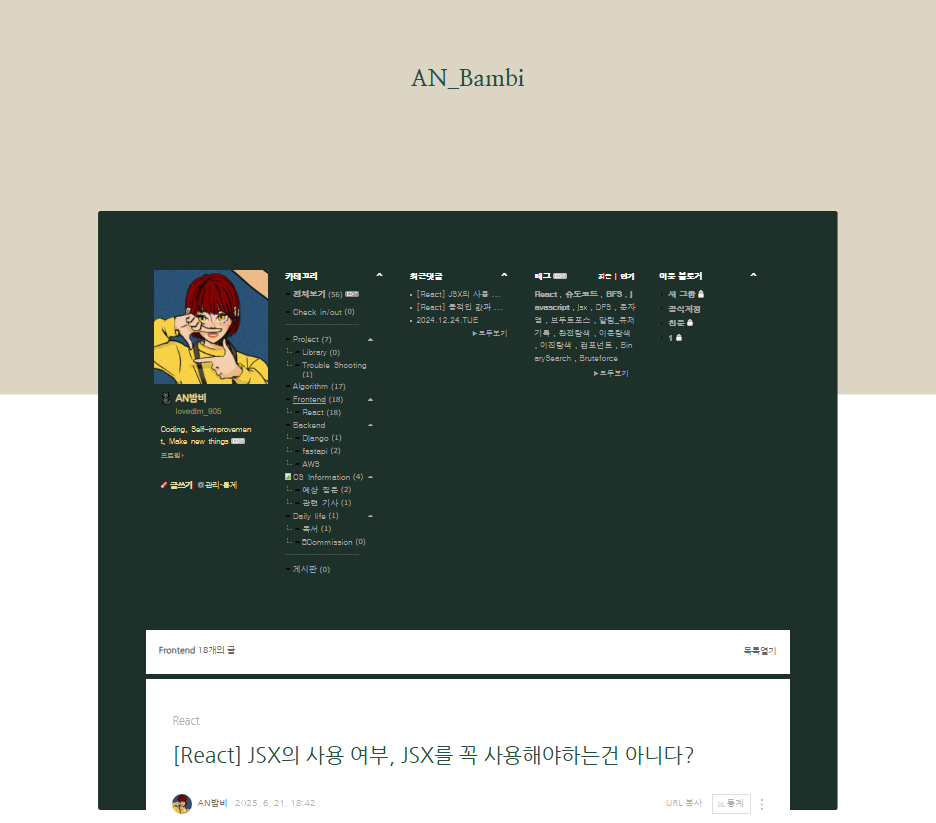
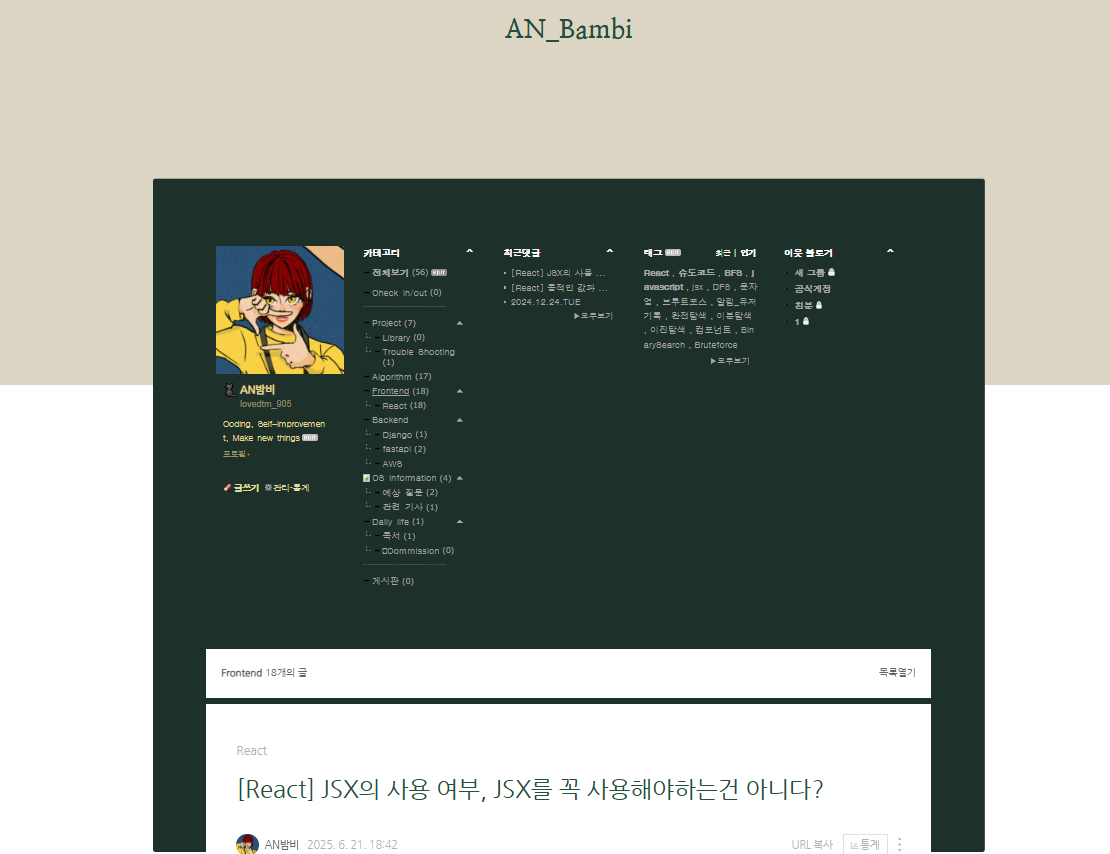
feat: 내비게이션 화살표 추가 및 페이지 전환 기능 구현 fix: 자격증 제목 수정 및 CSS 스타일 조정 fix: 연락처 섹션 스타일 개선 fix: 홈 섹션 최소 높이 및 스타일 수정

diff --git a/src/components/css/Contact.css b/src/components/css/Contact.css
@@ -1,6 +1,5 @@
 .contact {
-    height: 100vh;
-    padding: 80px 20px;
+    padding: 20px 20px;
     display: flex;
     flex-direction: column;
     justify-content: center;
@@ -14,13 +13,13 @@
     font-weight: 700;
     letter-spacing: 0.08em;
     color: #2c4d3a;
-    margin-bottom: 1.5rem;
+    margin-bottom: 3rem;
     flex-shrink: 0;
 }
 
 .contact-content {
     display: flex;
-    gap: 2rem;
+    gap: 4rem;
     width: 100%;
     flex: 1;
     align-items: flex-start;
@@ -29,8 +28,9 @@
 
 .contact-icons {
     display: flex;
-    gap: 32px;
-    align-items: center;
+    flex-direction: column;
+    gap: 100px;
+    align-items: flex-start;
     flex-shrink: 0;
 }
 
@@ -45,7 +45,7 @@
     color: #fffde7;
     text-decoration: none;
     font-size: 24px;
-    transition: background-color 0.5s ease, transform 0.5s ease;
+    transition: background-color 0.3s ease, transform 0.3s ease;
 }
 
 .blog-initial {
@@ -81,7 +81,7 @@
     flex: 1;
     height: 100%;
     max-width: 680px;
-    border-radius: 12px;
+    border-radius: 15px;
     display: flex;
     align-items: center;
     justify-content: center;
@@ -93,14 +93,14 @@
   width: 100%;
   height: auto;
   opacity: 0;
-  transition: opacity 0.5s ease;
+  transition: opacity 1s ease;
 }
 
 .contact-preview p {
   color: #2c4d3a;
   font-size: 0.95rem;
   opacity: 1;
-  transition: opacity 0.5s ease;
+  transition: opacity 1s ease;
 }
 
 .contact-preview img.fade-in {

diff --git a/src/App.jsx b/src/App.jsx
@@ -10,9 +10,32 @@ import Certificate from './components/Certificate';
 import Contact from './components/Contact';
 import './App.css';
 
-function App() {
+const pageOrder = [
+  'home', 'about', 'projects', 'skills',
+  'experience', 'certificate', 'contact'
+];
 
-  const [selectedPage, setSelectedPage] = useState('home');
+function App() {
+  const [currentIndex, setCurrentIndex] = useState(0);
+
+  const selectedPage = pageOrder[currentIndex];
+  
+  const goPrev = () => {
+    setCurrentIndex((prev) =>
+    prev === 0 ? pageOrder.length - 1 : prev - 1
+    );
+  };
+
+  const goNext = () => {
+    setCurrentIndex((prev) => 
+    prev === pageOrder.length - 1 ? 0 : prev + 1
+    );
+  };
+
+  const handleSelectPage = (page) => {
+    const idx = pageOrder.indexOf(page);
+    if (idx !== -1) setCurrentIndex(idx);
+  };
 
   const renderPage = () => {
     switch (selectedPage) {
@@ -37,10 +60,17 @@ function App() {
 
   return (
     <>
-      <Menu selectedPage={selectedPage} onSelectPage={setSelectedPage} />
+      <Menu selectedPage={selectedPage} onSelectPage={handleSelectPage} />
       <main className="content">
         {renderPage()}
       </main>
+
+        <button className="nav-arrow left" onClick={goPrev}>
+          ‹
+        </button>
+        <button className="nav-arrow right" onClick={goNext}>
+          ›
+        </button>
     </>
   );
 }

diff --git a/src/App.css b/src/App.css
@@ -39,3 +39,54 @@
 .read-the-docs {
   color: #888;
 }
+
+.nav-arrow {
+  position: fixed;
+  top: 50%;
+  transform: translateY(-50%);
+  background: rgba(44, 77, 58, 0.8);
+  color: #fffde7;
+  border: none;
+  width: 50px;
+  height: 50px;
+  border-radius: 50%;
+  font-size: 24px;
+  font-weight: bold;
+  cursor: pointer;
+  z-index: 50;
+  /* backdrop-filter: blur(10px); */
+  transition: all 0.3s ease;
+  display: flex;
+  align-items: center;
+  justify-content: center;
+  pointer-events: auto;
+  outline: none;
+  border: none;
+}
+
+.nav-arrow:hover {
+  background: #2c4d3a;
+  transform: translateY(-50%) scale(1.1);
+}
+
+.nav-arrow.left {
+  left: 20px;
+}
+
+.nav-arrow.right {
+  right: 20px;
+}
+
+.nav-arrow:hover {
+  background: rgba(44, 77, 58, 0.9);
+  transform: translateY(-50%) scale(1.05);
+}
+
+.nav-arrow:focus {
+  outline: none;
+  box-shadow: none;
+}
+
+.nav-arrow:active {
+  outline: none;
+}

diff --git a/src/components/css/Certificate.css b/src/components/css/Certificate.css
@@ -1,6 +1,5 @@
 .certificate {
-  height: 100vh;
-  padding: 80px 20px;
+  padding: 60px 40px;
   display: flex;
   flex-direction: column;
   align-items: center;
@@ -11,9 +10,9 @@
 .certificate h2 {
   font-size: 2.2rem;
   font-weight: 700;
-  letter-spacing: 0.08em;
+  letter-spacing: 0.1em;
   color: #2c4d3a;
-  margin-bottom: 2rem;
+  margin-bottom: 6rem;
 }
 
 .cert-list {
@@ -29,11 +28,10 @@
   justify-content: space-between;
   align-items: center;
   padding-bottom: 2rem;
-  border-bottom: 1px solid #e8f0ec;
 }
 
 .cert-name {
-  font-size: 1.1rem;
+  font-size: 1.5rem;
   font-weight: 600;
   color: #2c4d3a;
   flex: 1;

diff --git a/src/components/css/Home.css b/src/components/css/Home.css
@@ -1,6 +1,6 @@
 .home {
-  min-height: 100vh;
-  width: 100vw;
+  min-height: 85vh;
+
   display: flex;
   justify-content: flex-start;
   align-items: center;
@@ -17,7 +17,7 @@
   font-size: 4rem;
   font-weight: 800;
   letter-spacing: 0.08em;
-  color: #2c4d3a; /* 제목 */
+  color: #2c4d3a;
 }
 
 
@@ -25,13 +25,11 @@
   margin-top: 1rem;
   font-size: 1.5rem;
   color: #2c4d3a;
-  /* 서브 타이틀 */
 }
 
 
 .home-title span {
   color: #2FA36B;
-  /* 강조 */
 }
 
 
@@ -40,5 +38,4 @@
   font-size: 1.15rem;
   line-height: 1.6;
   color: #2c4d3a;
-  /* 본문 */
 }

diff --git a/src/components/Certificate.jsx b/src/components/Certificate.jsx
@@ -4,7 +4,7 @@ import './css/Certificate.css';
 function Certificate() {
   return (
     <section id="certificate" className="certificate">
-      <h2>자격증</h2>
+      <h2>기술 자격증</h2>
       
       <div className="cert-list">
         <div className="cert-item">

diff --git a/src/index.css b/src/index.css
@@ -1,3 +1,9 @@
+@import url('https://fonts.googleapis.com/css2?family=Noto+Sans+KR:wght@300;400;500;700&family=Inter:wght@300;400;500;700&display=swap');
+
+* {
+  font-family: 'Noto Sans KR', 'Inter', sans-serif;
+}
+
 html,
 body {
   width: 100%;
